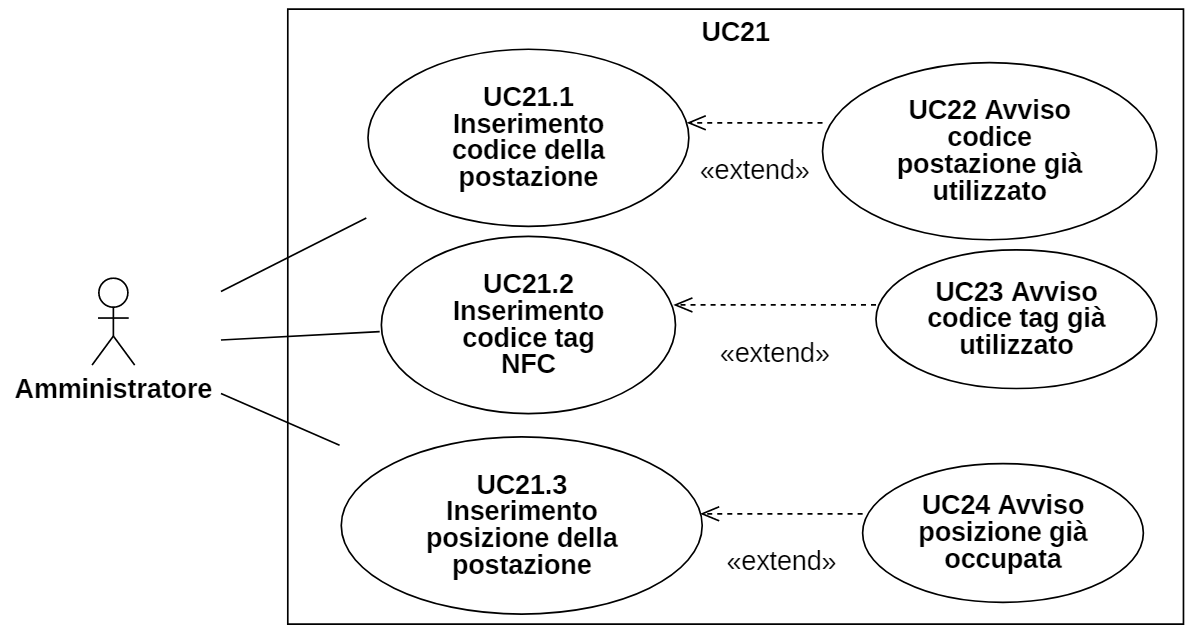
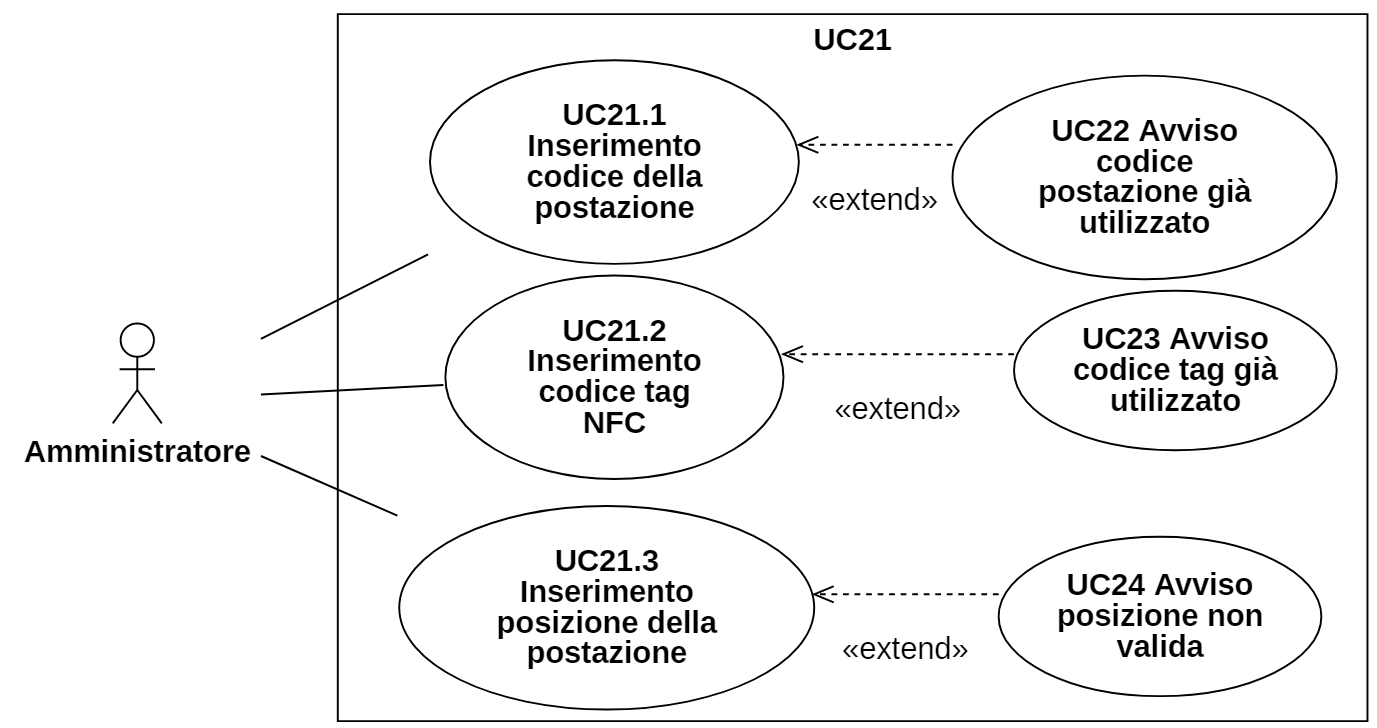
suddivisi inserimento e modifica posizione e modificato UC24

diff --git a/esterni/AnalisiDeiRequisiti/res/sections/casiUso.tex b/esterni/AnalisiDeiRequisiti/res/sections/casiUso.tex
@@ -518,6 +518,11 @@ In questa sezione sono riportati tutti i casi d'uso individuati, ordinati per at
 \end{itemize}
 
 \subsubsection{UC21.3 - Inserimento posizione della postazione}
+\begin{figure}[H]
+	\centering
+	\includegraphics[width=18cm]{res/images/UC21.3.png}
+	\caption{Inserimento posizione di una postazione}
+\end{figure}
 \begin{itemize}
 	\item\textbf{Attori Primari:}
 	amministratore.
@@ -531,19 +536,56 @@ In questa sezione sono riportati tutti i casi d'uso individuati, ordinati per at
 	è stata inserita la posizione della postazione all'interno della stanza.
 	\item\textbf{Estensioni:}
 	\begin{itemize}
-		\item[$-$] Avviso posizione già occupata (UC24).
+		\item[$-$] Avviso posizione non valida (UC24).
 	\end{itemize}
 \end{itemize}
-\subsubsection{UC24 - Avviso posizione già occupata}
+
+\subsubsection{ UC21.3.1 - Inserimento x}
 \begin{itemize}
 	\item\textbf{Attori Primari:}
 	amministratore.
 	\item\textbf{Descrizione:}
-	l'utente tenta di assegnare una posizione a una postazione già occupata.
+	l'utente inserisce l'ascissa della posizione di una postazione.
+	\item\textbf{Scenario principale:} 
+	l'utente inserisce l'ascissa della posizione.
+	\item\textbf{Precondizione:} 
+	l'utente è autenticato come amministratore e la postazione non è occupata.
+	\item\textbf{Postcondizione:}
+	è stata inserita l'ascissa della posizione della postazione.
+	\item\textbf{Estensioni:}
+	\begin{itemize}
+		\item[$-$] Avviso posizione non valida (UC24).
+	\end{itemize}
+\end{itemize}
+
+\subsubsection{ UC21.3.2 - Inserimento y}
+\begin{itemize}
+	\item\textbf{Attori Primari:}
+	amministratore.
+	\item\textbf{Descrizione:}
+	l'utente inserisce l'ordinata della posizione di una postazione.
+	\item\textbf{Scenario principale:} 
+	l'utente inserisce l'ordinata della posizione.
+	\item\textbf{Precondizione:} 
+	l'utente è autenticato come amministratore e la postazione non è occupata.
+	\item\textbf{Postcondizione:}
+	è stata inserita l'ordinata della posizione della postazione.
+	\item\textbf{Estensioni:}
+	\begin{itemize}
+		\item[$-$] Avviso posizione non valida (UC24).
+	\end{itemize}
+\end{itemize}
+
+\subsubsection{UC24 - Avviso posizione non valida}
+\begin{itemize}
+	\item\textbf{Attori Primari:}
+	amministratore.
+	\item\textbf{Descrizione:}
+	l'utente tenta di assegnare ad una postazione una posizione già occupata oppure che supera i limiti della stanza.
 	\item\textbf{Scenario principale:}
 	\begin{enumerate}
-		\item l'utente sta assegnando una posizione a una postazione, ma la posizione è già occupata;
-		\item la postazione non viene creata e alla vista dell'utente compare un avviso che indica che la posizione è occupata.
+		\item l'utente sta assegnando una posizione a una postazione, ma la posizione non è valida;
+		\item la postazione non viene creata e alla vista dell'utente compare un avviso che indica che la posizione non è valida.
 	\end{enumerate}
 	\item\textbf{Precondizione:}
 	l'utente sta assegnando la posizione a una postazione.
@@ -638,20 +680,61 @@ In questa sezione sono riportati tutti i casi d'uso individuati, ordinati per at
 \end{itemize}
 
 \subsubsection{ UC26.3 - Modifica posizione}
+\begin{figure}[H]
+	\centering
+	\includegraphics[width=18cm]{res/images/UC26.3.png}
+	\caption{Modifica posizione di una postazione}
+\end{figure}
 \begin{itemize}
 	\item\textbf{Attori Primari:}
 	amministratore.
 	\item\textbf{Descrizione:}
 	l'utente modifica la posizione di una postazione.
 	\item\textbf{Scenario principale:} 
-	l'utente inserisce la nuova posizione.
+	l'utente modifica la posizione, specificando valore di ascissa (UC26.3.1) e di ordinata (UC26.3.2).
 	\item\textbf{Precondizione:} 
 	l'utente è autenticato come amministratore e la postazione non è occupata.
 	\item\textbf{Postcondizione:}
 	è stata modificata la posizione della postazione.
 	\item\textbf{Estensioni:}
 	\begin{itemize}
-		\item[$-$] Avviso posizione già occupata (UC24).
+		\item[$-$] Avviso posizione non valida (UC24).
+	\end{itemize}
+\end{itemize}
+
+\subsubsection{ UC26.3.1 - Modifica x}
+\begin{itemize}
+	\item\textbf{Attori Primari:}
+	amministratore.
+	\item\textbf{Descrizione:}
+	l'utente modifica l'ascissa della posizione di una postazione.
+	\item\textbf{Scenario principale:} 
+	l'utente modifica l'ascissa della posizione.
+	\item\textbf{Precondizione:} 
+	l'utente è autenticato come amministratore e la postazione non è occupata.
+	\item\textbf{Postcondizione:}
+	è stata modificata l'ascissa della posizione della postazione.
+	\item\textbf{Estensioni:}
+	\begin{itemize}
+		\item[$-$] Avviso posizione non valida (UC24).
+	\end{itemize}
+\end{itemize}
+
+\subsubsection{ UC26.3.2 - Modifica y}
+\begin{itemize}
+	\item\textbf{Attori Primari:}
+	amministratore.
+	\item\textbf{Descrizione:}
+	l'utente modifica l'ordinata della posizione di una postazione.
+	\item\textbf{Scenario principale:} 
+	l'utente modifica l'ordinata della posizione.
+	\item\textbf{Precondizione:} 
+	l'utente è autenticato come amministratore e la postazione non è occupata.
+	\item\textbf{Postcondizione:}
+	è stata modificata l'ordinata della posizione della postazione.
+	\item\textbf{Estensioni:}
+	\begin{itemize}
+		\item[$-$] Avviso posizione non valida (UC24).
 	\end{itemize}
 \end{itemize}
 
